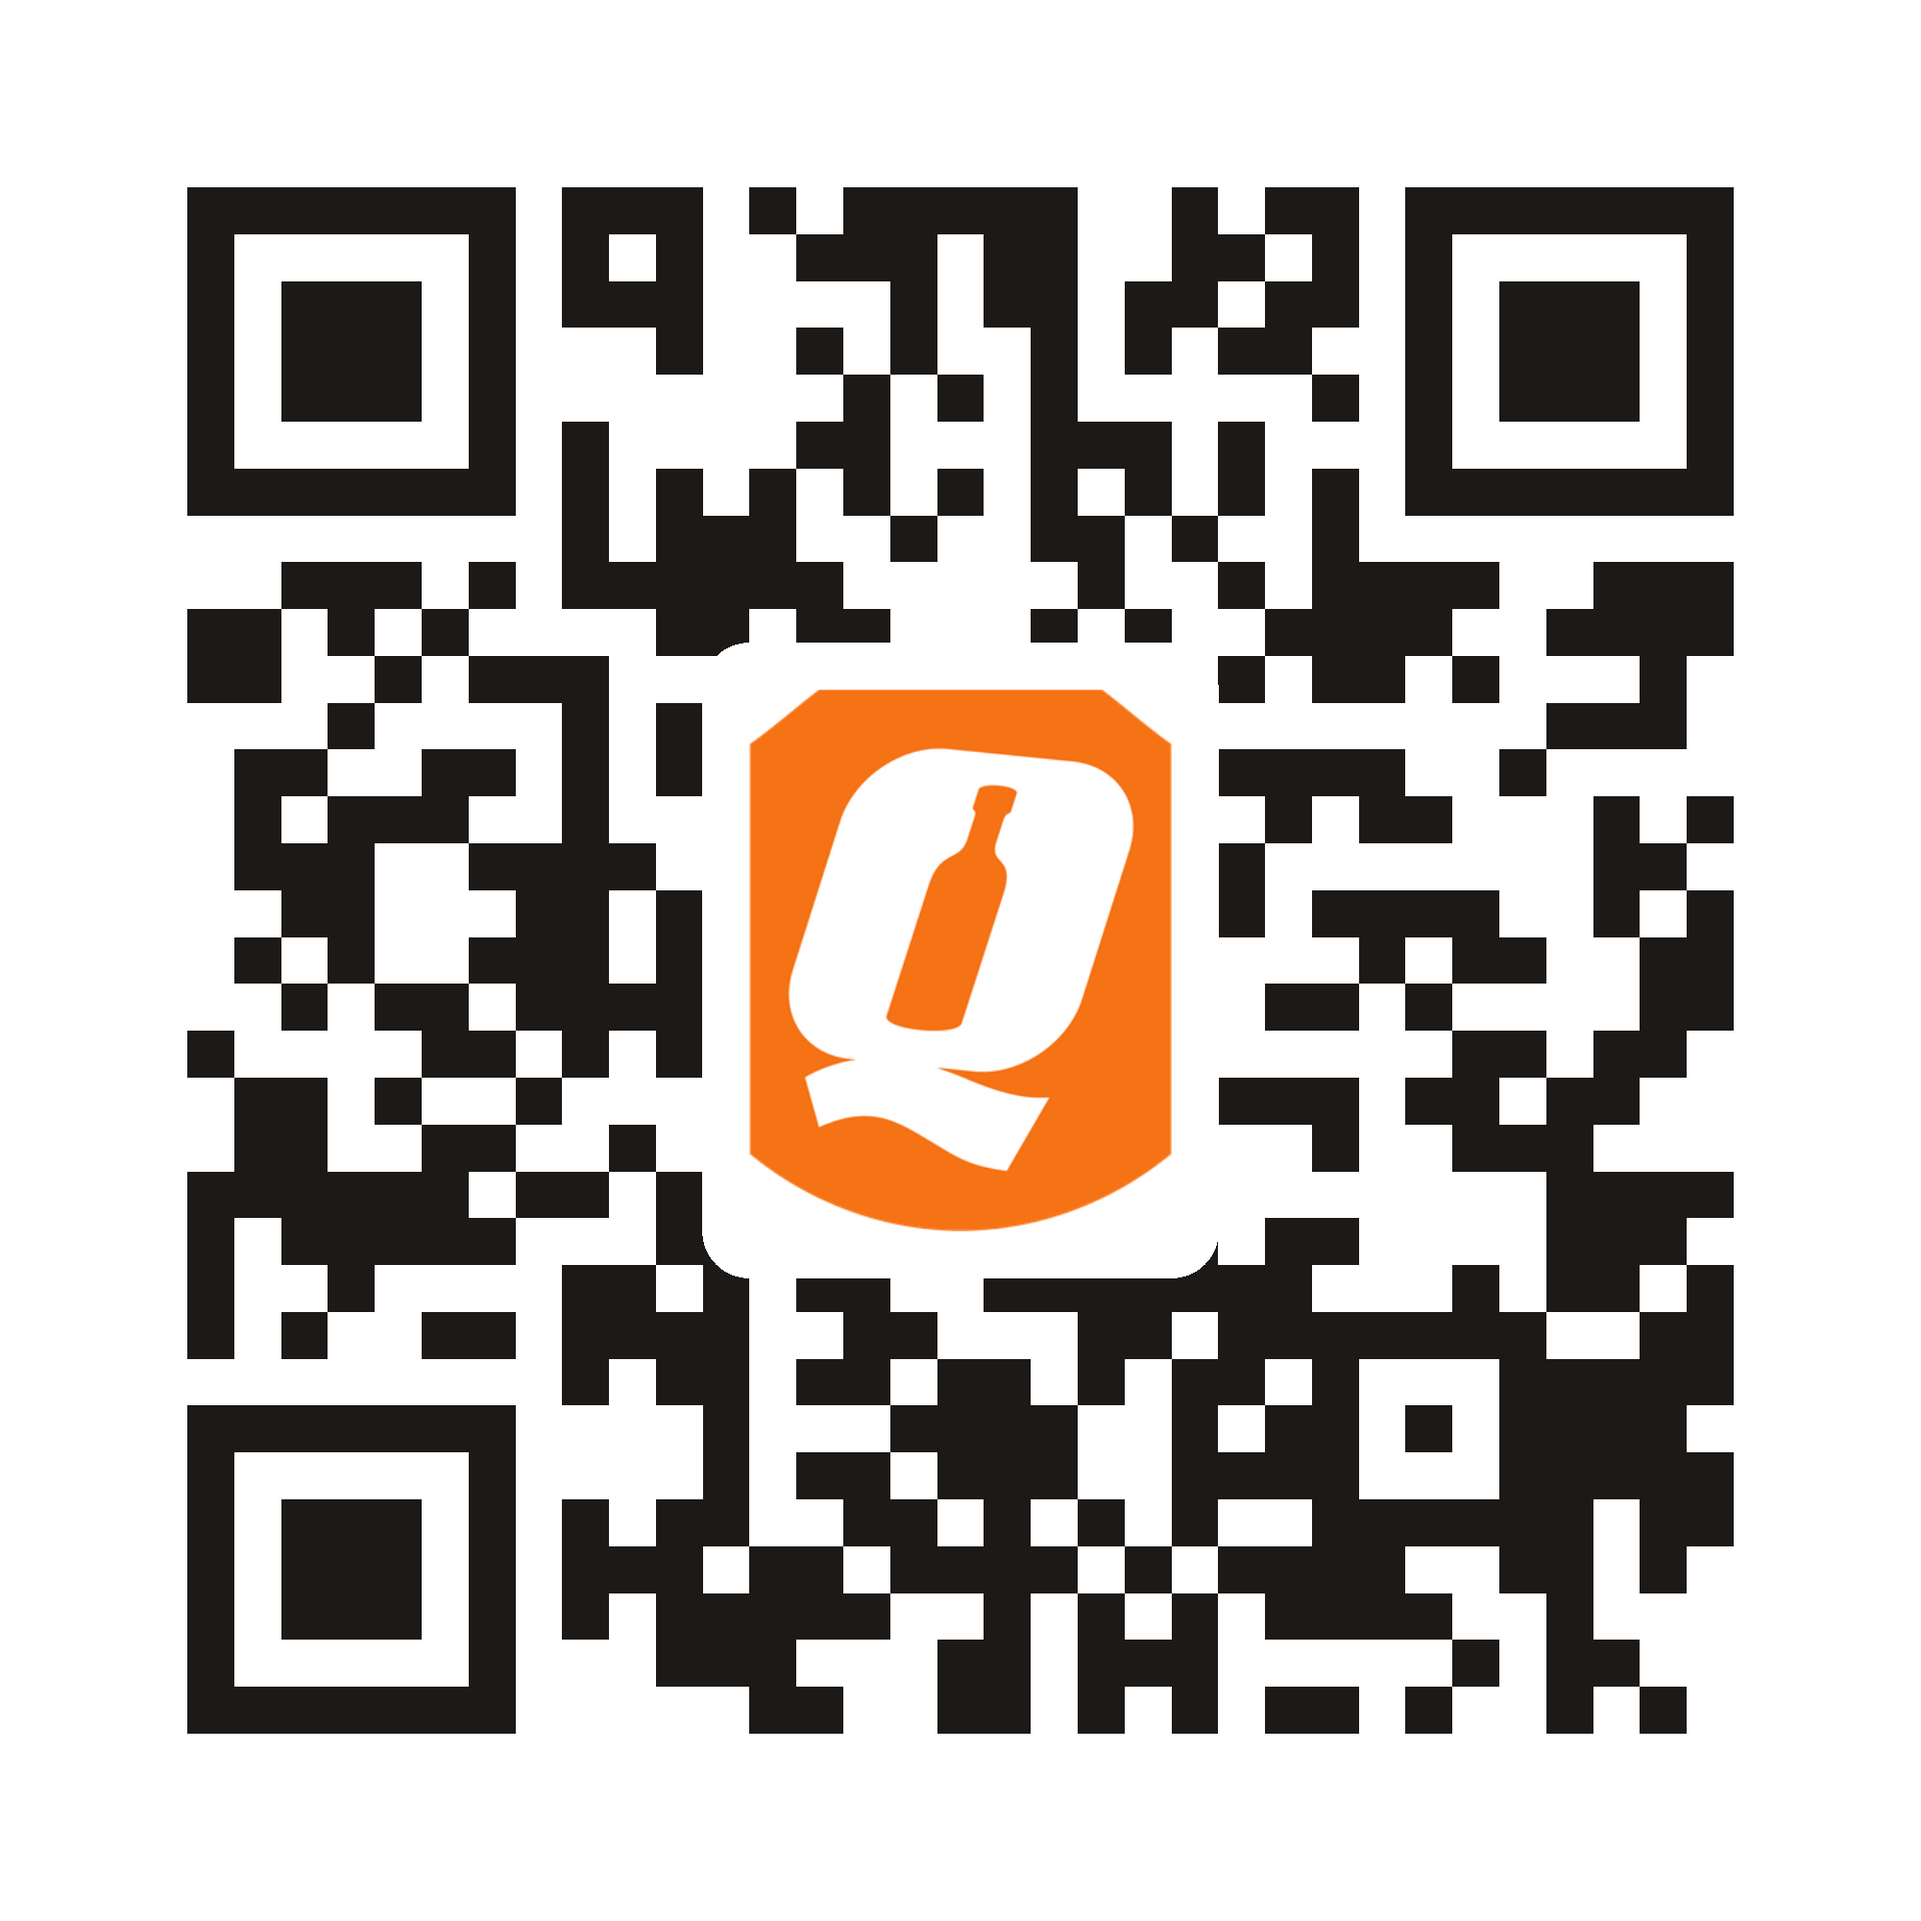
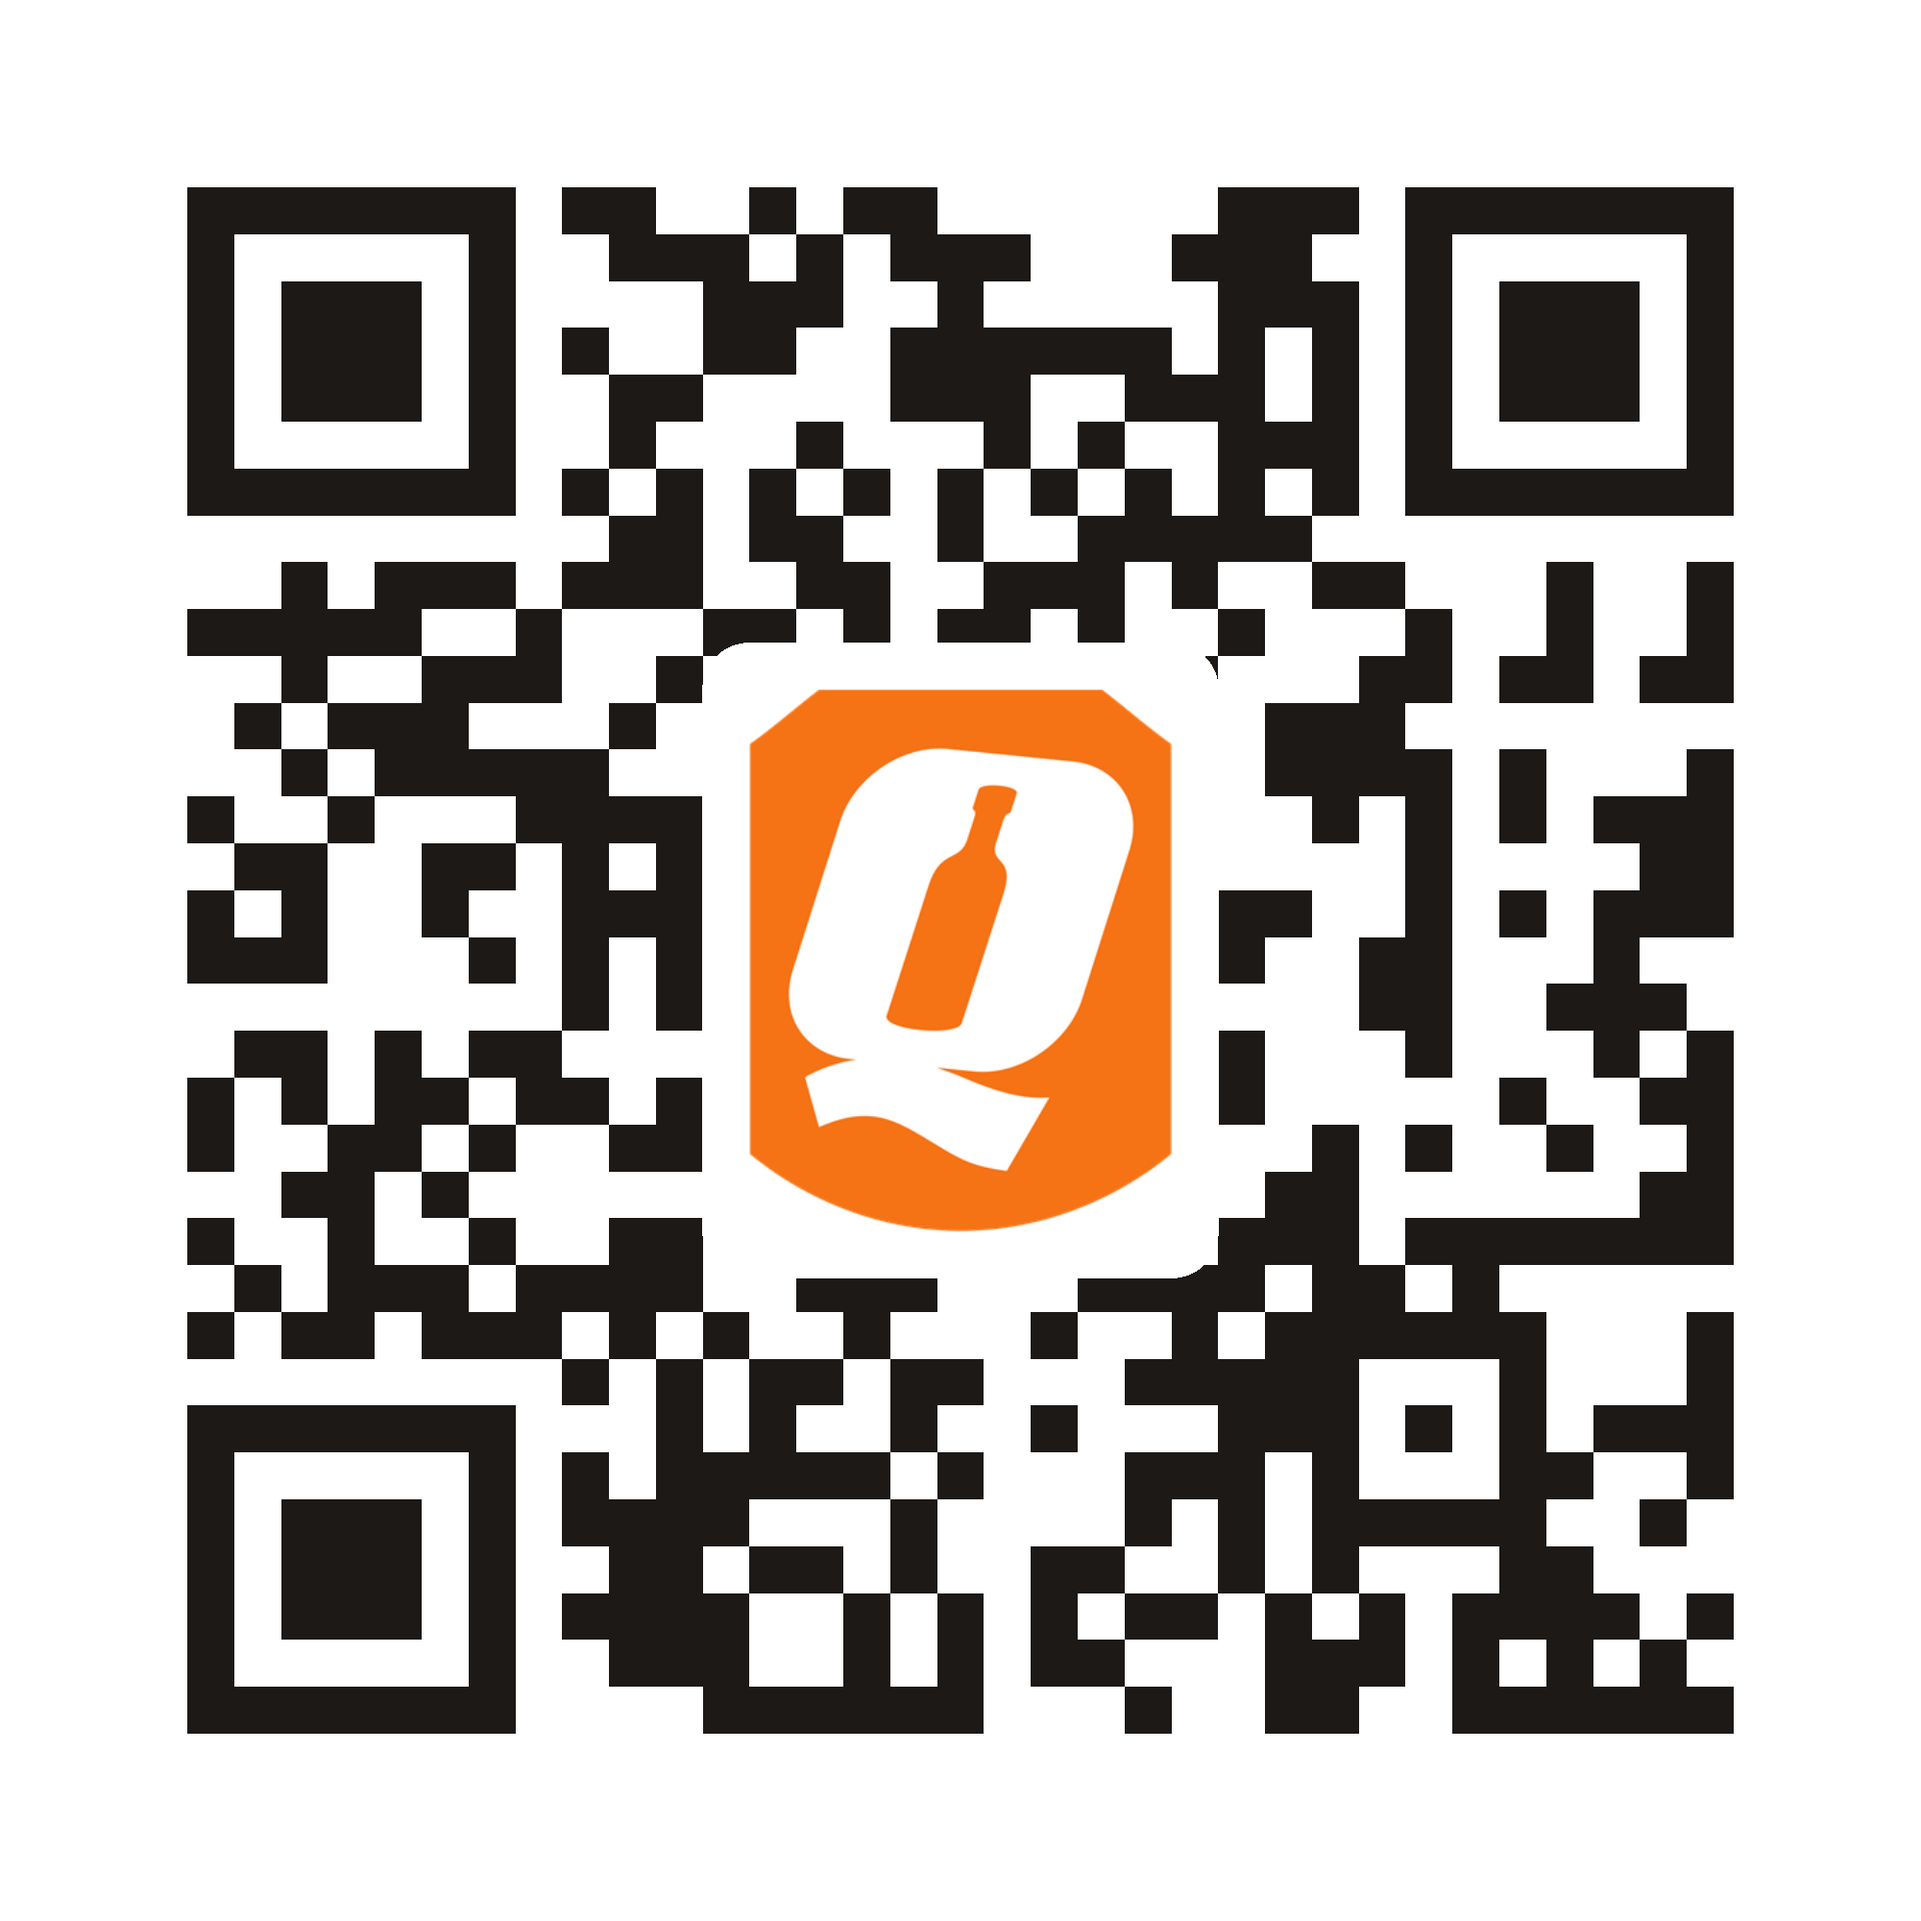
feat: move site to quadradaacd.com and point the QR code at it
Printed cards must not depend on the hosting provider, so the QR
code now encodes https://quadradaacd.com/qr. quadrada.vercel.app
redirects to the domain so old links and test codes keep working.

Changed region(s): [[0.093, 0.093, 0.93, 0.93], [0.434, 0.775, 0.465, 0.806]]

diff --git a/next.config.ts b/next.config.ts
@@ -1,10 +1,19 @@
 import type { NextConfig } from "next";
 
+import { siteConfig } from "./src/config/site";
+
 const nextConfig: NextConfig = {
   cacheComponents: true,
   partialPrefetching: true,
   async redirects() {
     return [
+      // Old links and test QR codes on the Vercel address land on our own domain (docs/decisions/0007).
+      {
+        source: "/:path*",
+        has: [{ type: "host", value: "quadrada.vercel.app" }],
+        destination: `${siteConfig.url}/:path*`,
+        permanent: false,
+      },
       // Printed QR codes point at /qr: change `destination` to retarget them (docs/decisions/0006).
       // Must stay temporary (307): browsers cache permanent redirects and would ignore changes.
       { source: "/qr", destination: "/", permanent: false },

diff --git a/src/config/site.ts b/src/config/site.ts
@@ -4,6 +4,7 @@ export const siteConfig = {
   legalName: "A Quadrada — Agremiação Copofónica e Desportiva",
   description:
     "A Quadrada — Agremiação Copofónica e Desportiva. Segue-nos no Instagram e no Facebook. Área de sócio brevemente disponível.",
+  url: "https://quadradaacd.com",
   locale: "pt_PT",
   social: {
     instagram: "https://www.instagram.com/quadrada.acd/",

diff --git a/src/app/layout.tsx b/src/app/layout.tsx
@@ -14,6 +14,7 @@ const brandFont = Plus_Jakarta_Sans({
 });
 
 export const metadata: Metadata = {
+  metadataBase: new URL(siteConfig.url),
   title: {
     default: siteConfig.legalName,
     template: `%s · ${siteConfig.name}`,

diff --git a/docs/PROJECT.md b/docs/PROJECT.md
@@ -43,6 +43,7 @@ new record that supersedes the old one, never by editing history.
 | [0004](decisions/0004-styling-and-brand.md)     | CSS Modules + design tokens, orange brand, self-hosted font   | Accepted |
 | [0005](decisions/0005-member-login-and-dues.md) | Email-code login; dues computed from payments; Excel import   | Proposed |
 | [0006](decisions/0006-dynamic-qr-code.md)       | Dynamic QR code via our own `/qr` redirect                    | Accepted |
+| [0007](decisions/0007-own-domain.md)            | Own domain `quadradaacd.com`; printed QR codes use it         | Accepted |
 
 ## Site map
 
@@ -150,7 +151,7 @@ Planned additions, created only when the phase needs them:
 - [x] Logo (PNG). An SVG version would give sharper edges at every size, if one exists.
 - [ ] Hero photos of members/activities (landscape, ≥2000px wide, with consent of people shown).
 - [ ] Public contact email / address / NIF for the footer.
-- [ ] Domain name.
+- [x] Domain: `quadradaacd.com` (GoDaddy, auto-renew). Print QR: `brand/qr/` → `https://quadradaacd.com/qr`.
 - [ ] Excel files (phase 2): columns used, number of members, monthly or annual dues.
 - [ ] Who gets backoffice access, and what each of them can change.
 

diff --git a/docs/decisions/0007-own-domain.md b/docs/decisions/0007-own-domain.md
@@ -1,0 +1,26 @@
+# 0007 — Own domain; printed QR codes use it
+
+- Status: Accepted (amends 0006)
+- Date: 2026-11-16
+
+## Context
+
+QR codes will be printed on physical member cards. A code that encodes `quadrada.vercel.app`
+depends on Vercel and on that project existing forever; changing host would break the cards.
+
+## Decision
+
+- The site's address is **`https://quadradaacd.com`** (registered at GoDaddy, auto-renew on).
+  `www.quadradaacd.com` redirects to it (set in Vercel → Domains).
+- **Anything printed uses our own domain**: the QR code encodes `https://quadradaacd.com/qr`.
+  Never print a `vercel.app` address.
+- `quadrada.vercel.app` redirects to the domain (`next.config.ts`), so old links and test
+  QR codes keep working.
+
+## Consequences
+
+- Moving host (Cloudflare, Netlify, …) means pointing the domain's DNS at the new host and
+  recreating the `/qr` redirect there. Printed cards keep working.
+- **The domain must never expire.** Keep auto-renew on and the GoDaddy payment card valid;
+  a lapsed domain breaks every card and could be bought by someone else.
+- GoDaddy account access should be shared with at least one other board member.

diff --git a/CLAUDE.md b/CLAUDE.md
@@ -14,7 +14,8 @@ way they are. Record new decisions there in the same change.
 - Brand colour is the logo orange. Orange text must use `--color-accent-strong` (contrast).
 - Logo files are generated: edit `brand/`, then run `python3 scripts/build_brand_assets.py`.
 - Use the tokens in `src/app/globals.css`; never hard-code new colours or spacing.
-- Site name and social links come from `src/config/site.ts`.
+- Site name, domain (`https://quadradaacd.com`) and social links come from `src/config/site.ts`.
+- Anything printed (QR codes) must use our own domain, never `vercel.app` (decision 0007).
 - Accessibility and mobile (320px+) are required: semantic HTML, visible focus, AA contrast,
   reduced-motion support. Check pages at mobile and desktop widths before finishing.
 - Never commit member data (Excel exports, CSVs) or secrets.

diff --git a/brand/qr/README.md b/brand/qr/README.md
@@ -1,3 +1,3 @@
-QR code target: https://quadrada.vercel.app/qr
+QR code target: https://quadradaacd.com/qr
 
-Regenerate: npm run qr -- https://quadrada.vercel.app/qr
+Regenerate: npm run qr -- https://quadradaacd.com/qr

diff --git a/docs/decisions/0006-dynamic-qr-code.md b/docs/decisions/0006-dynamic-qr-code.md
@@ -1,6 +1,6 @@
 # 0006 — Dynamic QR code via our own redirect
 
-- Status: Accepted
+- Status: Accepted, amended by [0007](0007-own-domain.md): printed codes use our own domain
 - Date: 2026-11-08
 
 ## Context
